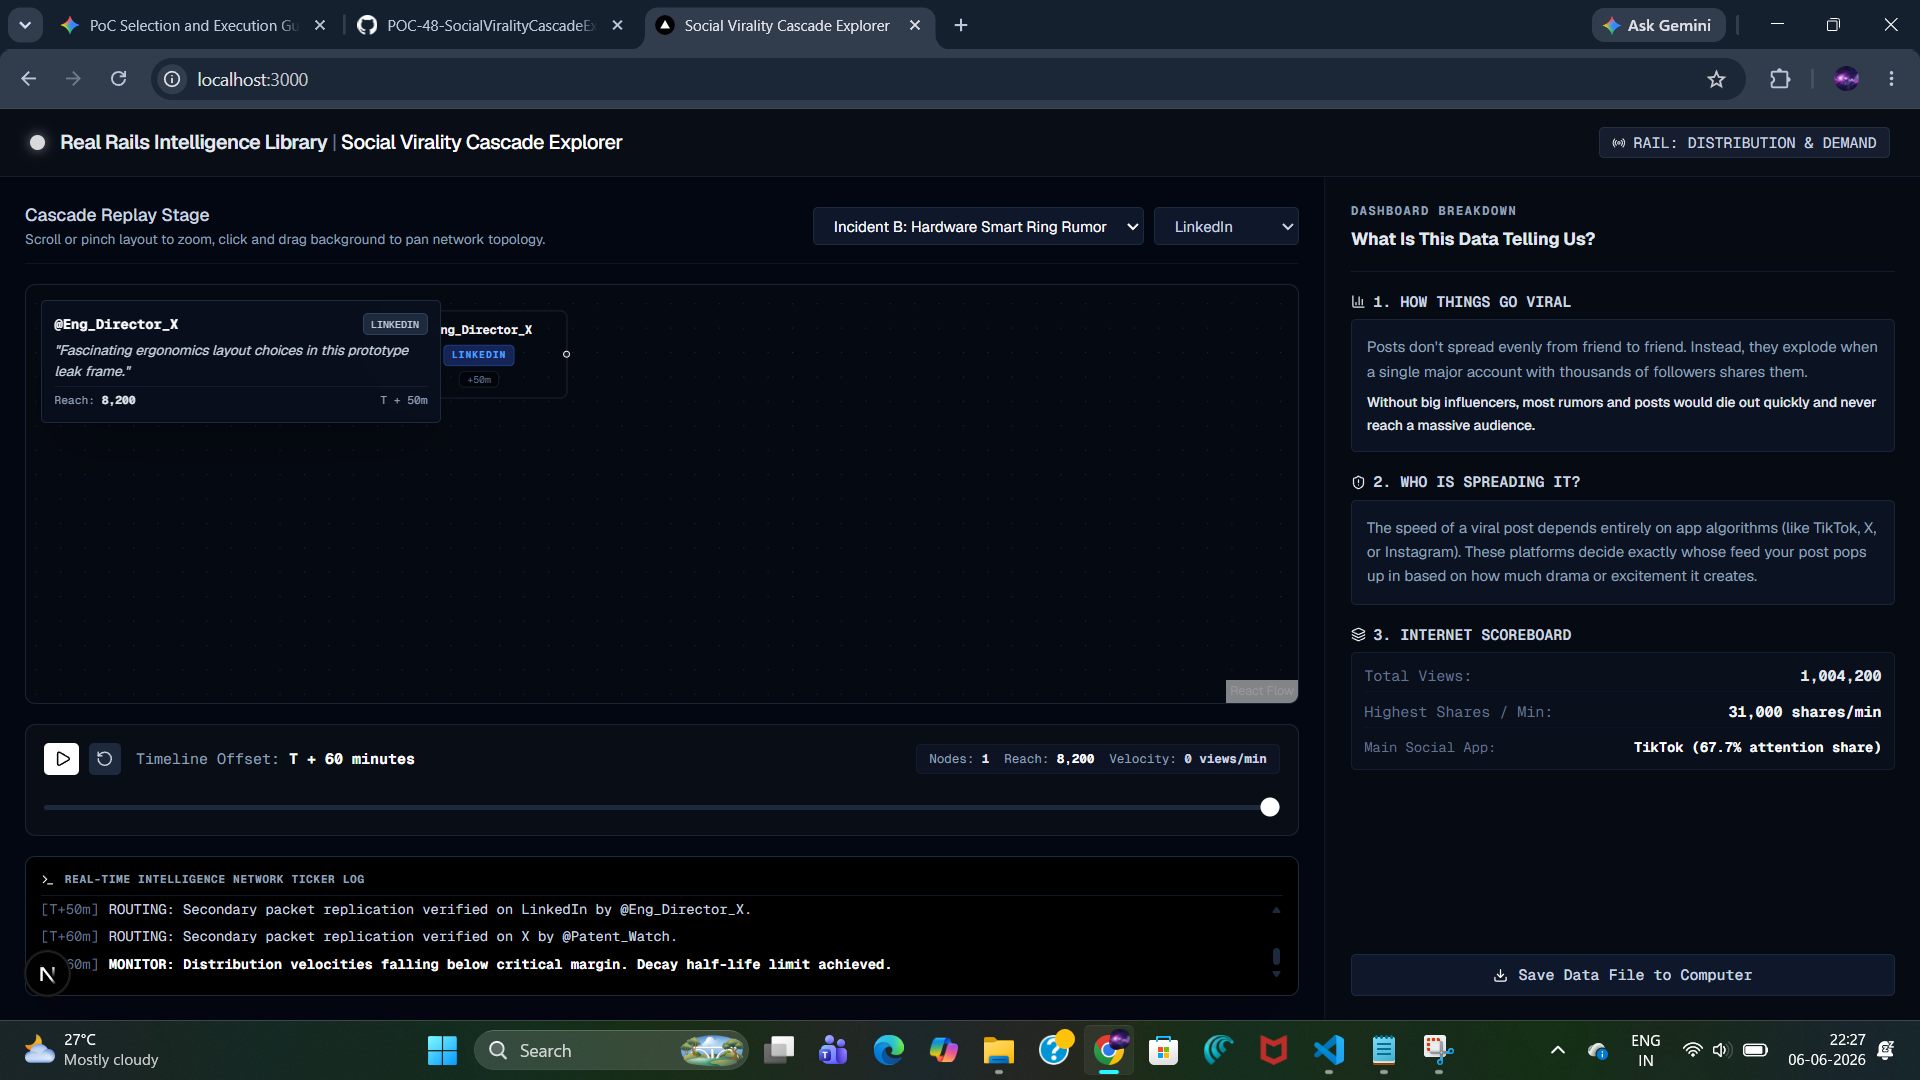
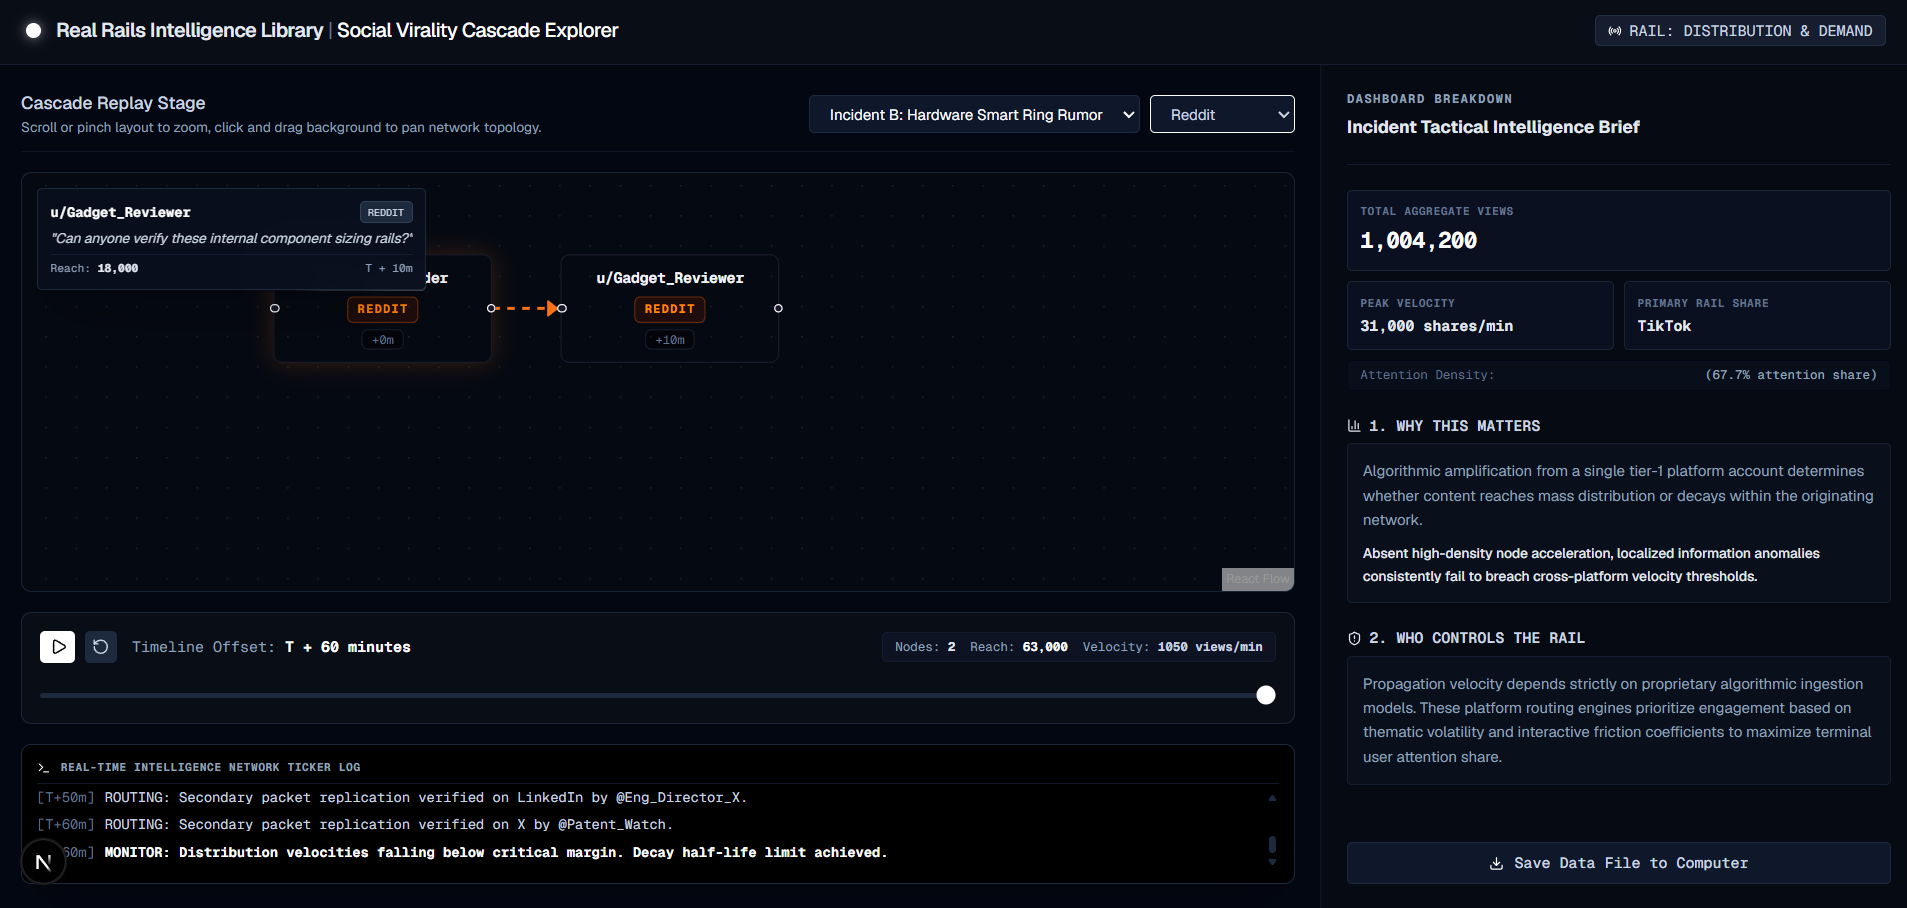
final commit included screenshots and video

diff --git a/app/page.tsx b/app/page.tsx
@@ -55,11 +55,10 @@ export default function SocialViralityCascadeExplorer() {
     logEndRef.current?.scrollIntoView({ behavior: "smooth" });
   }, [logs]);
 
- // 📡 Asynchronous API Engine: Queries Pandas filtration pipelines on FastAPI backend
+  // Asynchronous API Engine: Queries Pandas filtration pipelines on FastAPI backend
   useEffect(() => {
     async function fetchCascadeData() {
       try {
-        // Point this directly to the explicit 127.0.0.1 address shown in your uvicorn terminal
         const response = await fetch(`http://127.0.0.1:8000/api/cascade?time=${currentTime}&scenario=${selectedScenario}`);
         if (response.ok) {
           const data = await response.json();
@@ -448,25 +447,47 @@ export default function SocialViralityCascadeExplorer() {
         {/* ========================================================================= */}
         <section className="w-[31%] bg-[#060a12] p-5 flex flex-col space-y-5 h-full overflow-y-auto border-l border-slate-800/10 shrink-0 justify-between">
           
-          <div className="space-y-4">
+          <div className="space-y-5">
             <div>
               <h3 className="text-[10px] font-mono uppercase tracking-widest text-slate-400 font-bold">Dashboard Breakdown</h3>
-              <h2 className="text-sm font-bold text-slate-200 mt-1">What Is This Data Telling Us?</h2>
+              <h2 className="text-sm font-bold text-slate-200 mt-1">Incident Tactical Intelligence Brief</h2>
             </div>
 
             <hr className="border-slate-800/60" />
 
+            {/* KPI Analytics Cards Panel */}
+            <div className="grid grid-cols-1 gap-2">
+              <div className="bg-slate-900/50 border border-slate-800/80 rounded p-2.5 font-mono">
+                <div className="text-[9px] uppercase tracking-wider text-slate-500 font-bold">Total Aggregate Views</div>
+                <div className="text-lg font-bold text-white mt-0.5 tracking-tight">{scoreboardMetadata.totalViews}</div>
+              </div>
+              <div className="grid grid-cols-2 gap-2">
+                <div className="bg-slate-900/50 border border-slate-800/80 rounded p-2.5 font-mono">
+                  <div className="text-[9px] uppercase tracking-wider text-slate-500 font-bold">Peak Velocity</div>
+                  <div className="text-xs font-bold text-slate-200 mt-1 truncate">{scoreboardMetadata.highestShares}</div>
+                </div>
+                <div className="bg-slate-900/50 border border-slate-800/80 rounded p-2.5 font-mono">
+                  <div className="text-[9px] uppercase tracking-wider text-slate-500 font-bold">Primary Rail Share</div>
+                  <div className="text-xs font-bold text-slate-200 mt-1 truncate">{scoreboardMetadata.mainApp.split(" ")[0]}</div>
+                </div>
+              </div>
+              <div className="bg-slate-900/30 border border-slate-950 rounded px-2.5 py-1 text-[10px] font-mono text-slate-500 flex justify-between">
+                <span>Attention Density:</span>
+                <span className="text-slate-400 font-medium">{scoreboardMetadata.mainApp.substring(scoreboardMetadata.mainApp.indexOf("("))}</span>
+              </div>
+            </div>
+
             {/* Insight Segment 1 */}
             <div className="space-y-1.5">
               <h4 className="text-xs font-semibold text-slate-300 uppercase font-mono flex items-center gap-1.5">
-                <BarChart3 size={12} className="text-slate-200" /> 1. How Things Go Viral
+                <BarChart3 size={12} className="text-slate-200" /> 1. Why This Matters
               </h4>
-              <div className="bg-slate-900/60 border border-slate-800/80 rounded p-3 text-xs text-slate-400 leading-relaxed space-y-1.5">
+              <div className="bg-slate-900/40 border border-slate-800/60 rounded p-3 text-xs text-slate-400 leading-relaxed space-y-2">
                 <p>
-                  Posts don't spread evenly from friend to friend. Instead, they explode when a single major account with thousands of followers shares them. 
+                  Algorithmic amplification from a single tier-1 platform account determines whether content reaches mass distribution or decays within the originating network.
                 </p>
                 <p className="text-slate-200 font-medium text-[11px]">
-                  Without big influencers, most rumors and posts would die out quickly and never reach a massive audience.
+                  Absent high-density node acceleration, localized information anomalies consistently fail to breach cross-platform velocity thresholds.
                 </p>
               </div>
             </div>
@@ -474,33 +495,12 @@ export default function SocialViralityCascadeExplorer() {
             {/* Insight Segment 2 */}
             <div className="space-y-1.5">
               <h4 className="text-xs font-semibold text-slate-300 uppercase font-mono flex items-center gap-1.5">
-                <ShieldAlert size={12} className="text-slate-200" /> 2. Who is Spreading It?
+                <ShieldAlert size={12} className="text-slate-200" /> 2. Who Controls the Rail
               </h4>
-              <div className="bg-slate-900/60 border border-slate-800/80 rounded p-3 text-xs text-slate-400 leading-relaxed">
+              <div className="bg-slate-900/40 border border-slate-800/60 rounded p-3 text-xs text-slate-400 leading-relaxed">
                 <p>
-                  The speed of a viral post depends entirely on app algorithms (like TikTok, X, or Instagram). These platforms decide exactly whose feed your post pops up in based on how much drama or excitement it creates.
+                  Propagation velocity depends strictly on proprietary algorithmic ingestion models. These platform routing engines prioritize engagement based on thematic volatility and interactive friction coefficients to maximize terminal user attention share.
                 </p>
-              </div>
-            </div>
-
-            {/* Insight Segment 3 */}
-            <div className="space-y-1.5">
-              <h4 className="text-xs font-semibold text-slate-300 uppercase font-mono flex items-center gap-1.5">
-                <Layers size={12} className="text-slate-200" /> 3. Internet Scoreboard
-              </h4>
-              <div className="bg-slate-900/40 border border-slate-800/60 rounded p-2.5 text-xs space-y-2 font-mono">
-                <div className="flex justify-between border-b border-slate-900/60 pb-1">
-                  <span className="text-slate-500">Total Views:</span>
-                  <span className="text-slate-200 font-bold">{scoreboardMetadata.totalViews}</span>
-                </div>
-                <div className="flex justify-between border-b border-slate-900/60 pb-1">
-                  <span className="text-slate-500">Highest Shares / Min:</span>
-                  <span className="text-slate-100 font-bold">{scoreboardMetadata.highestShares}</span>
-                </div>
-                <div className="flex justify-between text-[11px]">
-                  <span className="text-slate-500">Main Social App:</span>
-                  <span className="text-white font-bold">{scoreboardMetadata.mainApp}</span>
-                </div>
               </div>
             </div>
           </div>